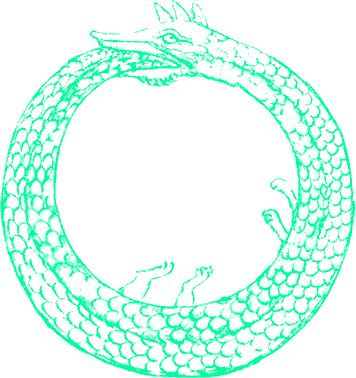
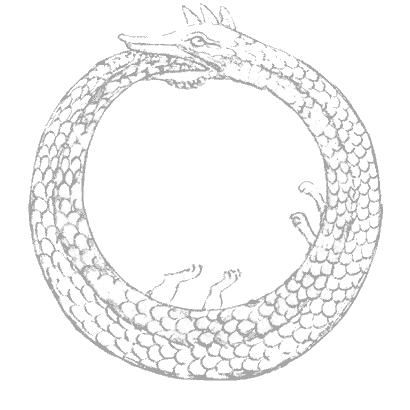
Add files via upload

Changed region(s): [[0.0, 0.0, 1.0, 1.0], [0.7107, 0.4365, 0.7416, 0.4656]]

diff --git a/index.html b/index.html
@@ -8,17 +8,17 @@
 <meta name="apple-mobile-web-app-status-bar-style" content="black-translucent">
 <title>circleClock</title>
 <style>
-  /* Big Shoulders Display 400 (SIL OFL), subset to the glyphs used here */
+  /* Antonio Thin 100 (SIL OFL), subset to the glyphs used here */
   @font-face {
-    font-family: "BigShoulders";
[1 lines of base64/hex data omitted]
-    font-weight: 400;
+    font-family: "Antonio";
[1 lines of base64/hex data omitted]
+    font-weight: 100;
     font-display: block;
   }
 
   :root {
     --bg: #313131;
-    --line: #54ffa4;
+    --line: #a6a6a6;   /* splash text */
   }
 
   html, body {
@@ -84,8 +84,9 @@
   #ouro {
     position: absolute;
     left: 50%; top: 50%;
-    width: 85px; height: 90px;
-    margin: -45px 0 0 -42.5px;
+    /* 410 × 410 artwork, same scale as before (ring body is centred in the square) */
+    width: 98px; height: 98px;
+    margin: -49px 0 0 -49px;
     pointer-events: none;
     -webkit-user-drag: none;
   }
@@ -97,9 +98,9 @@
     pointer-events: none;
   }
   #title text {
-    font-family: "BigShoulders", "Arial Narrow", sans-serif;
-    font-weight: 400;
-    font-size: 38px;
+    font-family: "Antonio", "Arial Narrow", sans-serif;
+    font-weight: 100;
+    font-size: 32px;
     fill: var(--line);
     text-anchor: middle;
   }
@@ -110,14 +111,14 @@
     top: 50%;
     margin-top: calc(118px * var(--s, 1));
     text-align: center;
-    font: 400 22px/1 "BigShoulders", "Arial Narrow", sans-serif;
+    font: 100 22px/1 "Antonio", "Arial Narrow", sans-serif;
     letter-spacing: .06em;
     color: var(--line);
     opacity: 0;
     transition: opacity .3s ease;
     pointer-events: none;
   }
-  #msg.show { opacity: .85; }
+  #msg.show { opacity: 1; }
 </style>
 </head>
 <body>
@@ -140,7 +141,7 @@
   'use strict';
 
   /* ================= config ================= */
-  const LINE      = '#54ffa4';
+  const LINE      = '#ffffff';   // clock ring borders & ticks
   const STROKE    = 2;      // ring border & tick width (px)
   const TICK_LEN  = 30;     // tick length from circumference toward centre (px)
   const MARGIN    = 10;     // gap between outer ring and the screen's short edge (px)
